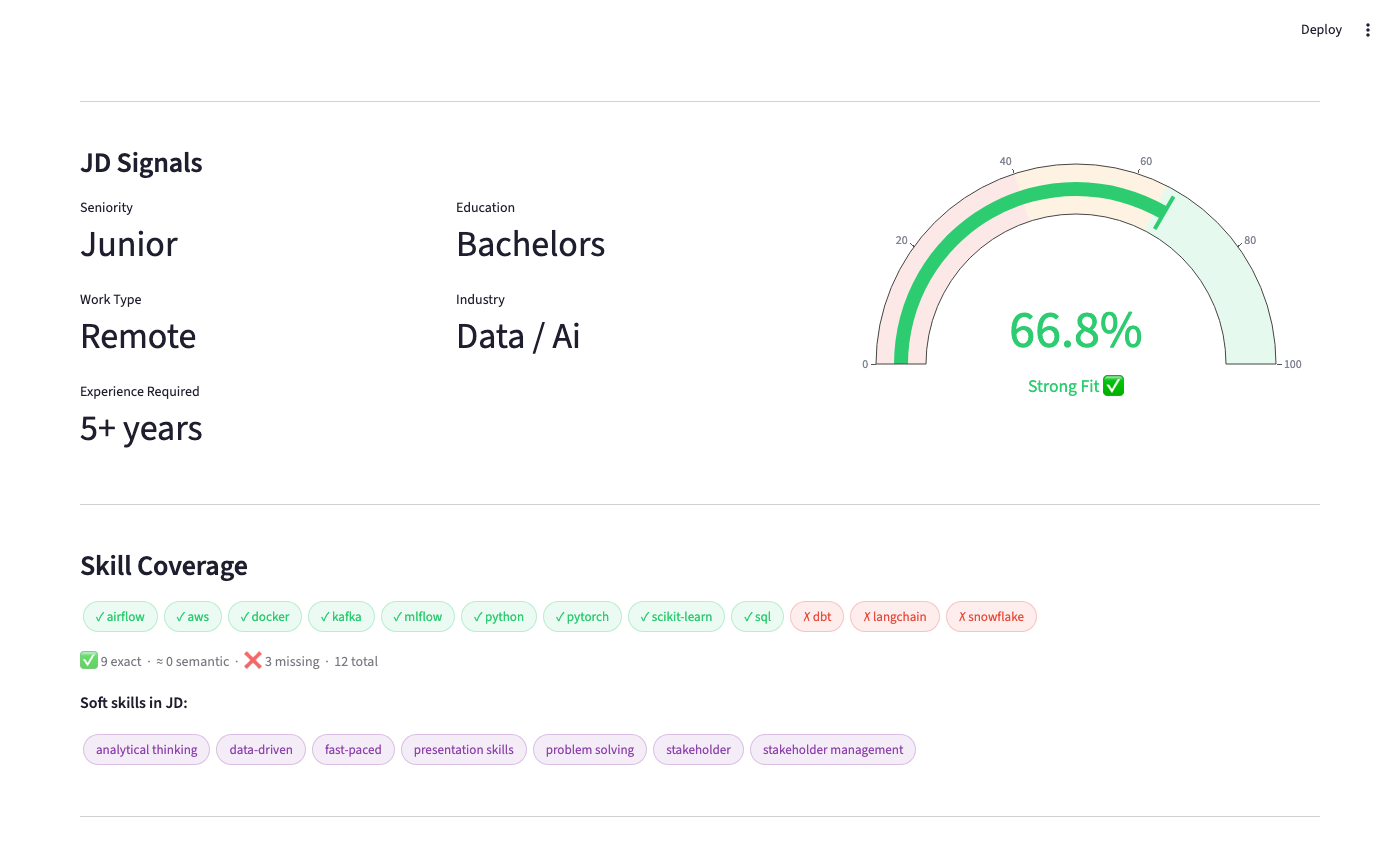
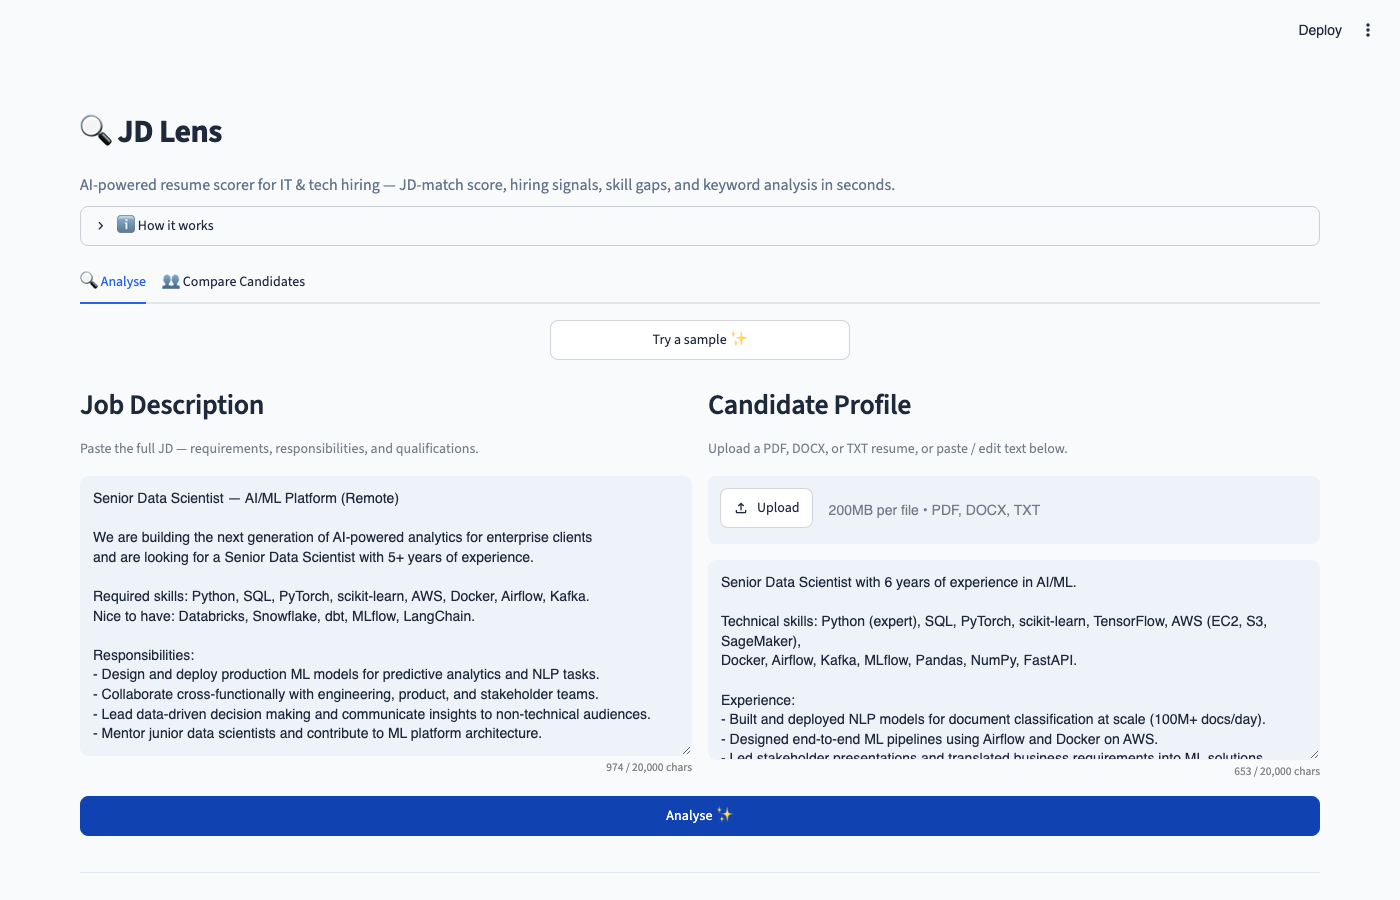
chore: fix ruff import sorting + update results screenshot

diff --git a/app.py b/app.py
@@ -10,7 +10,12 @@ import streamlit as st
 
 from classifier import classify_jd, get_pipeline
 from config import EMBEDDING_MODEL, MAX_CHARS, MAX_FILE_SIZE_MB, MIN_RESUME_WORDS, ZERO_SHOT_MODEL
-from extractor import extract_jd, extract_skills_and_tools, extract_soft_skills, extract_unknown_tools
+from extractor import (
+    extract_jd,
+    extract_skills_and_tools,
+    extract_soft_skills,
+    extract_unknown_tools,
+)
 from scorer import compute_fit_score, get_cross_encoder, get_embedding_model
 from signals import compute_hiring_signals, generate_prediction
 from utils import SUPPORTED_LABEL, SUPPORTED_TYPES, extract_text_from_file

diff --git a/tests/test_scorer.py b/tests/test_scorer.py
@@ -1,7 +1,12 @@
 """Unit tests for scorer.py — pure logic tests, no model calls."""
 import pytest
 
-from scorer import _detect_resume_sections, _extract_jd_keywords, _get_skills_section, _tfidf_similarity
+from scorer import (
+    _detect_resume_sections,
+    _extract_jd_keywords,
+    _get_skills_section,
+    _tfidf_similarity,
+)
 
 
 class TestExtractJdKeywords:

diff --git a/tests/test_signals.py b/tests/test_signals.py
@@ -3,10 +3,10 @@ from signals import (
     _score_deployment,
     _score_depth,
     _score_impact,
+    _score_skill_gap,
+    _score_soft_coverage,
     _score_trajectory,
     _score_verbs,
-    _score_soft_coverage,
-    _score_skill_gap,
     compute_hiring_signals,
     detect_role_type,
     generate_prediction,
